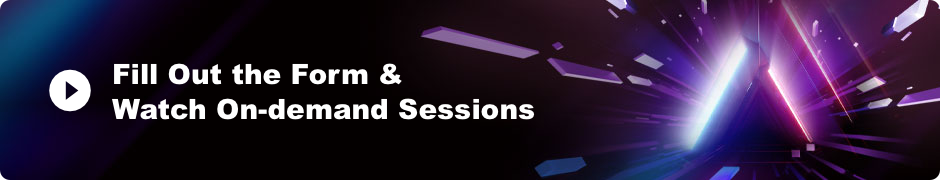
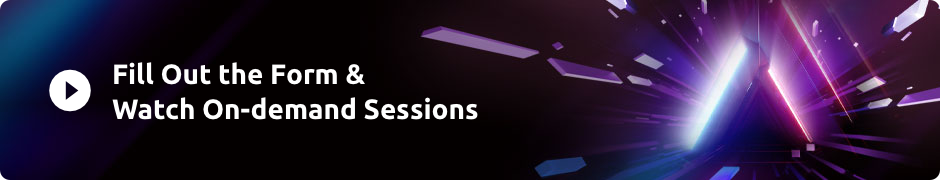
視覺調整

Changed region(s): [[0.1234, 0.5278, 0.5862, 0.6667], [0.1234, 0.3333, 0.4319, 0.4722]]

diff --git a/index_en.html b/index_en.html
@@ -16,14 +16,16 @@
     <link rel="stylesheet" type="text/css" href="css/icon.css">
 
     <link href="https://fonts.googleapis.com/css2?family=Noto+Sans+TC:wght@100;300;500;900&display=swap" rel="stylesheet">
-    <link href="https://fonts.googleapis.com/css2?family=Roboto:wght@100;300;400&display=swap" rel="stylesheet">
+    <link rel="preconnect" href="https://fonts.googleapis.com">
+    <link rel="preconnect" href="https://fonts.gstatic.com" crossorigin>
+    <link href="https://fonts.googleapis.com/css2?family=Ubuntu:wght@300;400;500;700&display=swap" rel="stylesheet">
 
   </head>
 
   <body>
     <div class="kv-boxs">
       <div class="allBoxs px-5 px-xl-0 t-pt3">
-        <a href="index.html" class="link-l px-5 px-xl-0">中文</a>
+        <a href="index.html" class="link-l px-5 px-xl-0">中文版</a>
         <div class="d-flex align-items-md-start align-items-center flex-column bd-highlight mb-3 px-5 px-xl-0 h500">
         <div class="mb-auto"><img src="img/kv-logo.png" class="figure-img img-fluid"></div>
         <div class="pb-xl-0 pb-4 mb-xl-0 mb-5 "><img src="img/kv-title-en.png" class="figure-img img-fluid"></div>
@@ -48,13 +50,13 @@
             <div class="w-25 d-inline-block float-start" style="line-height:80px;"><b>Organizer：</b></div>
             <div class="w-75 d-inline-block float-start">
               <a href="https://www.auo.com/zh-TW" target="_blank"><img src="img/logo-auo.png" class="f-img01"></a>
-              <a href="https://www.adlinktech.com/tw/index" target="_blank"><img src="img/logo-adlink.png" class="f-img02"></a>
+              <a href="https://www.adlinktech.com/tw/index" target="_blank"><img src="img/logo-adlinktech.png" class="f-img02"></a>
             </div>
           </div>
           <div class="col-xl-6 col-12 p-0">
           <div class="w-25 d-inline-block float-start" style="line-height:80px;"><b>Sponsor：</b></div>
             <div class="w-75 d-inline-block float-start">
-              <a href="https://www.intel.com.tw/content/www/tw/zh/homepage.html" target="_blank"><img src="img/logo-intel.png" class="f-img03"></a>
+              <a href="https://www.intel.sg/content/www/xa/en/homepage.html?countrylabel=Asia%20Pacific" target="_blank"><img src="img/logo-intel.png" class="f-img03"></a>
             </div>
           </div>
         </div>

diff --git a/index.html b/index.html
@@ -16,7 +16,9 @@
     <link rel="stylesheet" type="text/css" href="css/icon.css">
 
     <link href="https://fonts.googleapis.com/css2?family=Noto+Sans+TC:wght@100;300;500;900&display=swap" rel="stylesheet">
-    <link href="https://fonts.googleapis.com/css2?family=Roboto:wght@100;300;400&display=swap" rel="stylesheet">
+    <link rel="preconnect" href="https://fonts.googleapis.com">
+    <link rel="preconnect" href="https://fonts.gstatic.com" crossorigin>
+    <link href="https://fonts.googleapis.com/css2?family=Ubuntu:wght@300;400;500;700&display=swap" rel="stylesheet">
 
   </head>
 
@@ -49,13 +51,13 @@
             <div class="w-25 d-inline-block float-start" style="line-height:80px;">主辦單位：</div>
             <div class="w-75 d-inline-block float-start">
               <a href="https://www.auo.com/zh-TW" target="_blank"><img src="img/logo-auo.png" class="f-img01"></a>
-              <a href="https://www.adlinktech.com/tw/index" target="_blank"><img src="img/logo-adlink.png" class="f-img02"></a>
+              <a href="https://www.adlinktech.com/tw/index" target="_blank"><img src="img/logo-adlinktech.png" class="f-img02"></a>
             </div>
           </div>
           <div class="col-xl-6 col-12 p-0">
           <div class="w-25 d-inline-block float-start" style="line-height:80px;">主要贊助：</div>
             <div class="w-75 d-inline-block float-start">
-              <a href="https://www.intel.com.tw/content/www/tw/zh/homepage.html" target="_blank"><img src="img/logo-intel.png" class="f-img03"></a>
+              <a href="https://www.intel.sg/content/www/xa/en/homepage.html?countrylabel=Asia%20Pacific" target="_blank"><img src="img/logo-intel.png" class="f-img03"></a>
             </div>
           </div>
         </div>

diff --git a/css/public.css b/css/public.css
@@ -3009,7 +3009,7 @@ textarea.form-control-lg { min-height: calc(1.5em + (1rem + 2px)); }
   .d-print-none { display: none !important; } }
 html { font-size: 16px; height: 100%; }
 
-body { position: relative; display: inline-block; width: 100%; margin: 0; padding: 0; color: black; font-family: 'Roboto', 'Noto Sans TC', "Helvetica Neue", HelveticaNeue, Helvetica, Arial, sans-serif; }
+body { position: relative; display: inline-block; width: 100%; margin: 0; padding: 0; color: black; font-family: 'Ubuntu', 'Noto Sans TC', "Helvetica Neue", HelveticaNeue, Helvetica, Arial, sans-serif; }
 
 .kv-boxs { display: inline-block; width: 100%; min-height: 810px; margin: 0; padding: 0; background: #000 url(../img/banner.png) center right no-repeat; -moz-background-size: cover; background-size: cover; }
 @media screen and (max-width: 449px) and (min-width: 0) { .kv-boxs { background: #000 url(../img/mobile_bg.png) center 33px no-repeat; -moz-background-size: contain; background-size: contain; } }

diff --git a/scss/public.scss b/scss/public.scss
@@ -16,7 +16,7 @@ body {
   padding: 0;
   color: black;
 
-  font-family:'Roboto', 'Noto Sans TC', "Helvetica Neue", HelveticaNeue, Helvetica, Arial, sans-serif;
+  font-family:'Ubuntu', 'Noto Sans TC', "Helvetica Neue", HelveticaNeue, Helvetica, Arial, sans-serif;
 }
 
 .kv-boxs {
